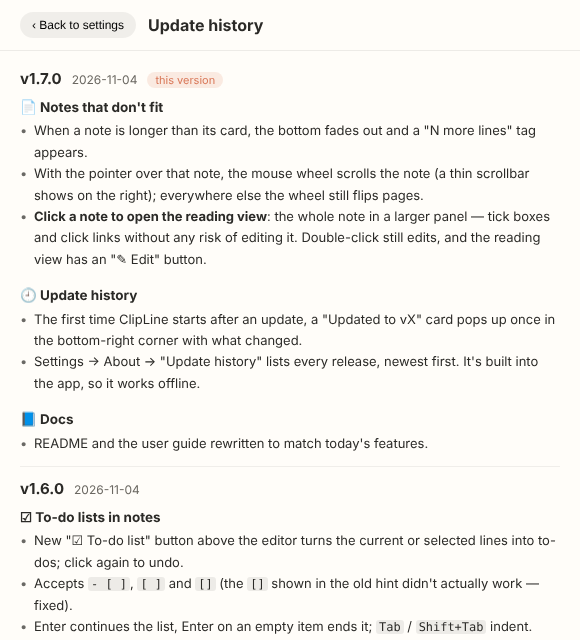
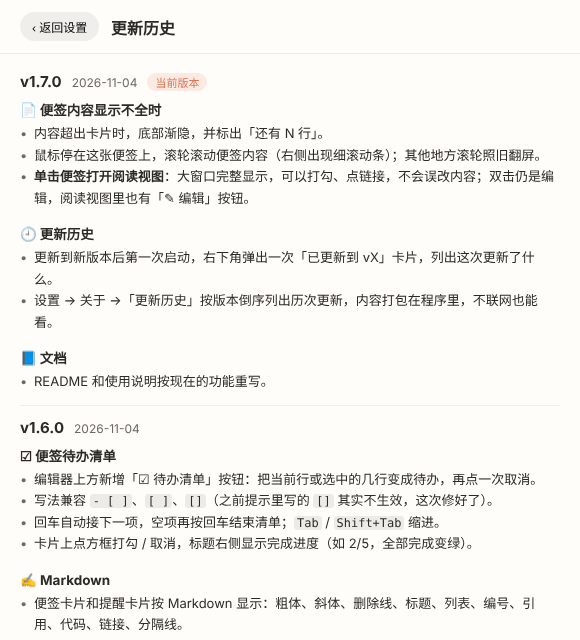
Docs: screenshots in the user guide; Chinese update-history shot; note-overflow shot
Claude-Session: https://claude.ai/code/session_01RbBfmRrXFqzjS9mo5w3Kmi

diff --git a/使用说明.md b/使用说明.md
@@ -51,7 +51,7 @@
 
 **底部栏**（从左到右）：类型筛选（全部 / 文字 / 链接 / 颜色 / 图片 / 文件）、搜索、「✂ 截图」、「整理」（有失效卡片时才出现）、「按日期」、★ 只看收藏、页码、翻屏按钮、⚙ 设置。在绳子空白处滚动鼠标滚轮也能翻屏。
 
-<!-- 截图：assets/guide-line.png — 剪贴板绳放下的全貌，带底部栏 -->
+<img src="assets/guide-line.png" alt="剪贴板绳放下的全貌，带底部栏" />
 
 ---
 
@@ -86,7 +86,7 @@
 
 **链接备注**：右键链接卡「添加备注」，或双击链接卡在编辑框下方填写，最多 100 字（例如「报销系统登录页」）。备注显示在卡片最上方（最多两行，悬停看全文），日期叠里的小卡也显示；搜索能搜到备注；同一链接再次复制时备注保留。
 
-<!-- 截图：assets/guide-link-note.png — 带备注的链接卡 + 编辑框下方的备注栏 -->
+<img src="assets/guide-link-note.png" alt="带备注的链接卡 + 编辑框下方的备注栏" />
 
 **收藏**：悬停卡片点右下角 ☆（或右键「收藏」），变成 ★。收藏的卡片固定在绳子左端，不会被自动清理；底部 ★ 按钮可以只看收藏。
 
@@ -112,7 +112,7 @@
 
 ## 五、绳子的布局：收藏区 · 今天 · 按日期折叠
 
-<!-- 截图：assets/guide-layout.png — 左端收藏区、中间今天的卡片、右端三个日期叠 -->
+<img src="assets/guide-layout.png" alt="左端收藏区、中间今天的卡片、右端三个日期叠" />
 
 - **收藏区（左端）**：收藏的卡片固定挂在最左边，和其它卡片之间隔着一个小木扣，翻页时不动。最多 3 个位置，收藏超过 3 张时第 3 位变成「★ 其余收藏 N 张」一叠。拖动收藏卡的夹子可以调整先后。切换到「文字 / 链接 / 图片…」等分类时，左端只显示该分类里的收藏。
 - **今天**：今天（0 点以后）复制的卡片按时间散挂在中间，最新的在前；多了就翻页。
@@ -133,7 +133,7 @@
 
 支持多显示器、高分屏，截的是实际像素。截图进行中，顶边悬停和拖拽接住会暂停。
 
-<!-- 截图：assets/guide-shot.png — 框选中的选区 + 工具条 -->
+<img src="assets/guide-shot.png" alt="框选中的选区 + 工具条" width="460" />
 
 **标注**：图片卡右键「✎ 标注」，或钉图、截图工具条上的「标注」。
 
@@ -142,7 +142,7 @@
 - `Ctrl+Z` 撤销，`Ctrl+Y` 重做；快捷键 P / A / R / E / T / M / N 切换工具；
 - 点「✓ 完成」（或 `Ctrl+S`）保存为一张**新的**图片卡并复制，原图保留。
 
-<!-- 截图：assets/guide-annotate.png — 标注窗口，画了箭头、方框和序号 -->
+<img src="assets/guide-annotate.png" alt="标注窗口，画了箭头、方框和序号" width="420" />
 
 **识别文字（OCR）**：图片卡右键「文 识别文字」，或标注窗口、钉图、截图工具条上的「识别」。用的是 Windows 自带的文字识别，不联网、不用下载模型。识别结果挂成一张文字卡并复制，同时打开编辑框方便核对。
 
@@ -169,8 +169,9 @@
 
 内容超出卡片时，卡片底部渐隐，右下角标出「还有 N 行」（按显示的行数算，一段自动折行的长文字算一行），点它也能打开阅读视图。
 
-<!-- 截图：assets/guide-note-overflow.png — 一张长便签：底部渐隐 + 「还有 N 行」 -->
-<!-- 截图：assets/guide-reader.png — 阅读视图 -->
+<img src="assets/guide-note-overflow.png" alt="一张长便签：底部渐隐 + 「还有 N 行」" width="320" />
+
+<img src="assets/guide-reader.png" alt="阅读视图" width="700" />
 
 **编辑器：**
 - 上方选底色；`Ctrl+S` 保存，`Esc` 保存并关闭；内容清空后关闭即删除这张便签。
@@ -178,7 +179,7 @@
 - **Markdown**：`**粗体**`、`*斜体*`、`~~删除线~~`、`# 标题`、`- 列表`、`1. 编号`、`> 引用`、`` `代码` ``、`[文字](网址)`、`---` 分隔线；编辑器上方有对应按钮，`Ctrl+B` / `Ctrl+I` 加粗 / 斜体。「👁 预览」先看效果，预览里也能打勾。
 - 底部 🔔 设提醒（见下一节）。
 
-<!-- 截图：assets/guide-editor.png — 便签编辑器，带格式按钮和待办 -->
+<img src="assets/guide-editor.png" alt="便签编辑器，带格式按钮和待办" width="400" />
 
 收藏的便签排在最前。便签不会被自动清理。
 
@@ -205,7 +206,7 @@
 
 多个提醒同时到点时，卡片依次往上叠。
 
-<!-- 截图：assets/guide-reminder.png — 右下角的提醒卡片 -->
+<img src="assets/guide-reminder.png" alt="右下角的提醒卡片" width="300" />
 
 ---
 
@@ -236,7 +237,7 @@
 - **使用说明**：常用操作速查。
 - **关于**：数据文件夹（「打开数据文件夹」）、当前版本与「检查更新」、**「更新历史」**、自动更新方式。
 
-<!-- 截图：assets/guide-theme.png — 设置里的主题缩略图和强调色 -->
+<img src="assets/guide-theme.png" alt="设置里的主题缩略图和强调色" width="440" />
 
 ---
 
@@ -257,15 +258,14 @@
 
 连不上 GitHub 时，卡片会说明原因，可以点「打开发布页手动下载」。v1.4.0 及更早的版本没有这个功能，需要手动下载一次新版。
 
-<!-- 截图：assets/guide-update.png — 发现新版本的更新卡片 -->
+<img src="assets/guide-update.png" alt="发现新版本的更新卡片" width="320" />
 
 **更新历史**：
 
 - 更新到新版本后**第一次启动**，右下角弹出一次「已更新到 vX」卡片，列出这次更新了什么；点「全部更新历史」看以往各版本，点「知道了」关闭。新安装的不会弹。
 - 设置 → 关于 →「更新历史」→「查看」：按版本倒序列出历次更新。内容打包在程序里，不联网也能看；中英文跟随界面语言。
 
-<!-- 截图：assets/guide-news.png — 「已更新到 v1.7.0」卡片 -->
-<!-- 截图：assets/guide-history.png — 设置里的更新历史列表 -->
+<img src="assets/guide-news.png" alt="「已更新到 v1.7.0」卡片" width="320" />&nbsp;&nbsp;<img src="assets/guide-history.png" alt="设置里的更新历史列表" width="420" />
 
 ---
 

diff --git a/docs/DEVELOPMENT.md b/docs/DEVELOPMENT.md
@@ -41,6 +41,7 @@ RUSTC_BOOTSTRAP=1 cargo check -Zbuild-std=std,panic_abort --target x86_64-pc-win
 - 注意：在 Claude 会话里无法编辑或发布已有的 Release（GitHub 接口拒绝），草稿只能由仓库主人在网页上点「Publish release」。
 - 只改发布说明不用重新编译：运行 **Release notes** 工作流，填上标签即可。
 - 排查问题：在 exe 旁边放一个空的 `clipline-debug.log`，程序就会写诊断日志。
+- 截图：`使用说明.md` 用的配图在 `assets/guide-*.png`，界面改了要记得重截；README 首图是 `assets/screenshot.png`。
 
 ## 设计决定
 已经定下的取舍，改之前先想清楚当初为什么这样定。
